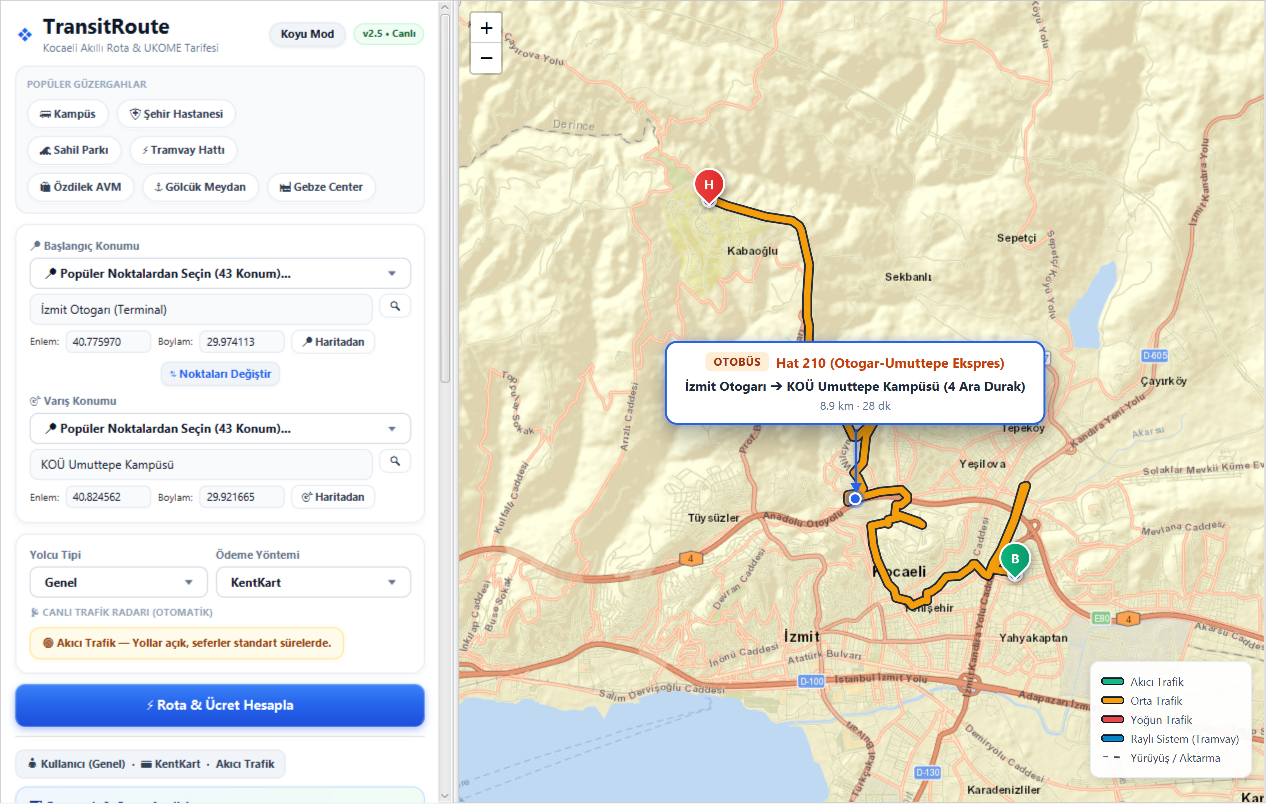
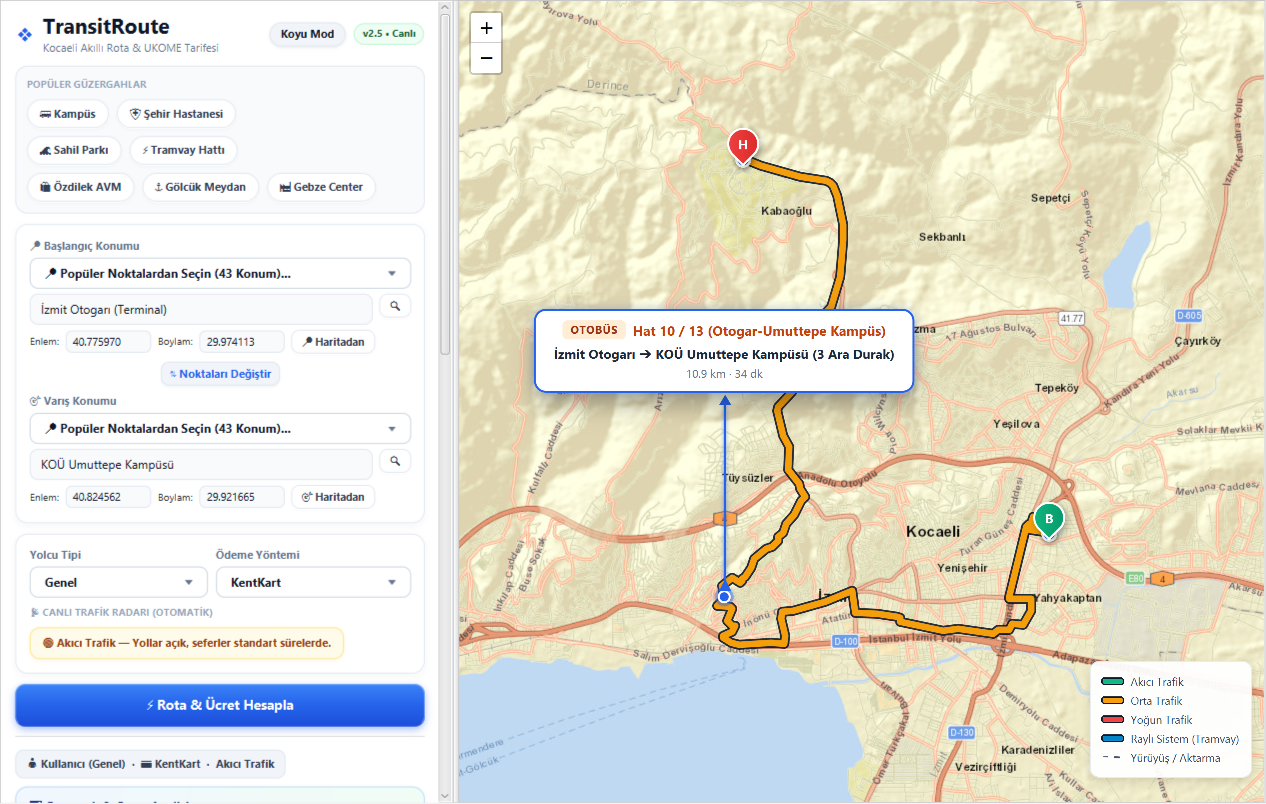
fix(map): 200px ok uzatmasi, yoldan cikan yon oku ve otobus-taksi rota ayristirmasi

diff --git a/src/main/resources/map/map.html b/src/main/resources/map/map.html
@@ -249,17 +249,17 @@
     box-shadow: 0 0 10px rgba(37, 99, 235, 0.9), 0 0 0 3px rgba(37, 99, 235, 0.35);
   }
 
-  /* 2. Yoldan Dışarı Çıkan Yön Gösterici Ok ve Sap Çizgisi (Leader Stem) */
+  /* 2. Yoldan Dışarı Çıkan Yön Gösterici Ok ve Sap Çizgisi (Leader Stem: 200px) */
   .route-callout-stem {
     position: absolute;
     bottom: 0;
     left: 0;
     width: 2px;
-    height: 70px;
+    height: 200px;
     pointer-events: none;
     z-index: 3002;
   }
-  .route-callout-stem .stem-arrow {
+  .route-callout-stem .stem-arrow-up {
     position: absolute;
     bottom: 6px;
     left: 50%;
@@ -268,44 +268,65 @@
     height: 0;
     border-left: 6px solid transparent;
     border-right: 6px solid transparent;
-    border-top: 10px solid #ea580c;
+    border-bottom: 12px solid #ea580c;
   }
   .route-callout-stem .stem-line {
     position: absolute;
-    top: 0;
-    bottom: 15px;
+    top: 6px;
+    bottom: 16px;
     left: 50%;
     transform: translateX(-50%);
     width: 2.5px;
     background: #ea580c;
     box-shadow: 0 0 6px rgba(234, 88, 12, 0.6);
   }
+  .route-callout-stem .stem-arrow-top {
+    position: absolute;
+    top: -2px;
+    left: 50%;
+    transform: translateX(-50%);
+    width: 0;
+    height: 0;
+    border-left: 6px solid transparent;
+    border-right: 6px solid transparent;
+    border-bottom: 10px solid #ea580c;
+  }
   .route-callout.callout-tram .route-callout-stem .stem-line {
     background: #0284c7;
     box-shadow: 0 0 6px rgba(2, 132, 199, 0.6);
   }
-  .route-callout.callout-tram .route-callout-stem .stem-arrow {
-    border-top-color: #0284c7;
+  .route-callout.callout-tram .route-callout-stem .stem-arrow-up,
+  .route-callout.callout-tram .route-callout-stem .stem-arrow-top {
+    border-bottom-color: #0284c7;
   }
   .route-callout.callout-bus .route-callout-stem .stem-line {
     background: #2563eb;
     box-shadow: 0 0 6px rgba(37, 99, 235, 0.6);
   }
-  .route-callout.callout-bus .route-callout-stem .stem-arrow {
-    border-top-color: #2563eb;
+  .route-callout.callout-bus .route-callout-stem .stem-arrow-up,
+  .route-callout.callout-bus .route-callout-stem .stem-arrow-top {
+    border-bottom-color: #2563eb;
   }
   body.theme-dark .route-callout-stem .stem-line {
     background: #f97316;
     box-shadow: 0 0 8px rgba(249, 115, 22, 0.9);
   }
-  body.theme-dark .route-callout-stem .stem-arrow {
-    border-top-color: #f97316;
+  body.theme-dark .route-callout-stem .stem-arrow-up,
+  body.theme-dark .route-callout-stem .stem-arrow-top {
+    border-bottom-color: #f97316;
+  }
+  body.theme-dark .route-callout.callout-bus .route-callout-stem .stem-line {
+    background: #3b82f6;
+  }
+  body.theme-dark .route-callout.callout-bus .route-callout-stem .stem-arrow-up,
+  body.theme-dark .route-callout.callout-bus .route-callout-stem .stem-arrow-top {
+    border-bottom-color: #3b82f6;
   }
 
-  /* 3. Yoldan Tamamen Uzakta, Havada Duran Bilgi Kartı */
+  /* 3. Yoldan 200px Uzakta, Boş Alanda Havada Duran Bilgi Kartı */
   .route-callout-bubble {
     position: absolute;
-    bottom: 74px; /* Yoldan 74px yukarıda, yol hattını asla kapatmaz */
+    bottom: 204px; /* Yoldan 204px yukarıda, yol ve şehir çizgilerini asla kapatmaz */
     left: 0;
     transform: translateX(-50%);
     background: #ffffff;
@@ -606,6 +627,25 @@
     return coords;
   }
 
+  function getRouteMidpoint(coords) {
+    if (!coords || coords.length === 0) return null;
+    if (coords.length <= 2) return coords[0];
+    var totalDist = 0;
+    var dists = [0];
+    for (var i = 1; i < coords.length; i++) {
+      var d = map.distance(coords[i - 1], coords[i]);
+      totalDist += d;
+      dists.push(totalDist);
+    }
+    var targetDist = totalDist * 0.52;
+    for (var i = 1; i < dists.length; i++) {
+      if (dists[i] >= targetDist) {
+        return coords[i];
+      }
+    }
+    return coords[Math.floor(coords.length / 2)];
+  }
+
   var currentRouteRequestId = 0;
 
   async function drawRoute(segmentler) {
@@ -627,7 +667,11 @@
     guncelleDurakGorunurlugu(aktifDuraklar);
 
     if (tumBoundsNoktalari.length > 0) {
-      map.fitBounds(L.latLngBounds(tumBoundsNoktalari), { padding: [60, 60], maxZoom: 14 });
+      map.fitBounds(L.latLngBounds(tumBoundsNoktalari), {
+        paddingTopLeft: [130, 60],
+        paddingBottomRight: [60, 60],
+        maxZoom: 14
+      });
     }
 
     // Her segment için sokak geometrisini al, yolu çiz ve yol ortasından dışarı ok çıkan kartı ekle
@@ -669,8 +713,7 @@
       }
 
       if (streetCoords && streetCoords.length >= 2) {
-        var midIndex = Math.floor(streetCoords.length / 2);
-        var midCoord = streetCoords[midIndex];
+        var midCoord = getRouteMidpoint(streetCoords);
 
         var rawVehicle = seg.hatBilgisi || (seg.tip === 'tramvay' ? 'Tramvay' : (seg.tip === 'taksi' ? 'Sarı Taksi' : 'Belediye Otobüsü'));
         var cleanHat = rawVehicle.replace(/[\uD800-\uDBFF][\uDC00-\uDFFF]|\uD83C[\uDF00-\uDFFF]|\uD83D[\uDC00-\uDE4F]|\uD83D[\uDE80-\uDEFF]/g, '').trim();
@@ -699,7 +742,8 @@
             '<div class="route-callout-anchor"></div>' +
             '<div class="route-callout-stem">' +
               '<div class="stem-line"></div>' +
-              '<div class="stem-arrow"></div>' +
+              '<div class="stem-arrow-up"></div>' +
+              '<div class="stem-arrow-top"></div>' +
             '</div>' +
             '<div class="route-callout-bubble">' +
               '<div class="callout-vehicle">' +

diff --git a/src/main/java/com/ulasim/hesaplama/service/KocaeliHatRehberi.java b/src/main/java/com/ulasim/hesaplama/service/KocaeliHatRehberi.java
@@ -39,7 +39,7 @@ public final class KocaeliHatRehberi {
         // Kocaeli Üniversitesi Umuttepe Kampüsü Hatları
         if (b.contains("umuttepe") || h.contains("umuttepe")) {
             if (b.contains("otogar") || h.contains("otogar")) {
-                return "🚌 Hat 210 (Otogar-Umuttepe Ekspres)";
+                return "🚌 Hat 10 / 13 (Otogar-Umuttepe Kampüs)";
             }
             if (b.contains("sekapark") || h.contains("sekapark")) {
                 return "🚌 Hat 14 (Sekapark-Umuttepe)";
